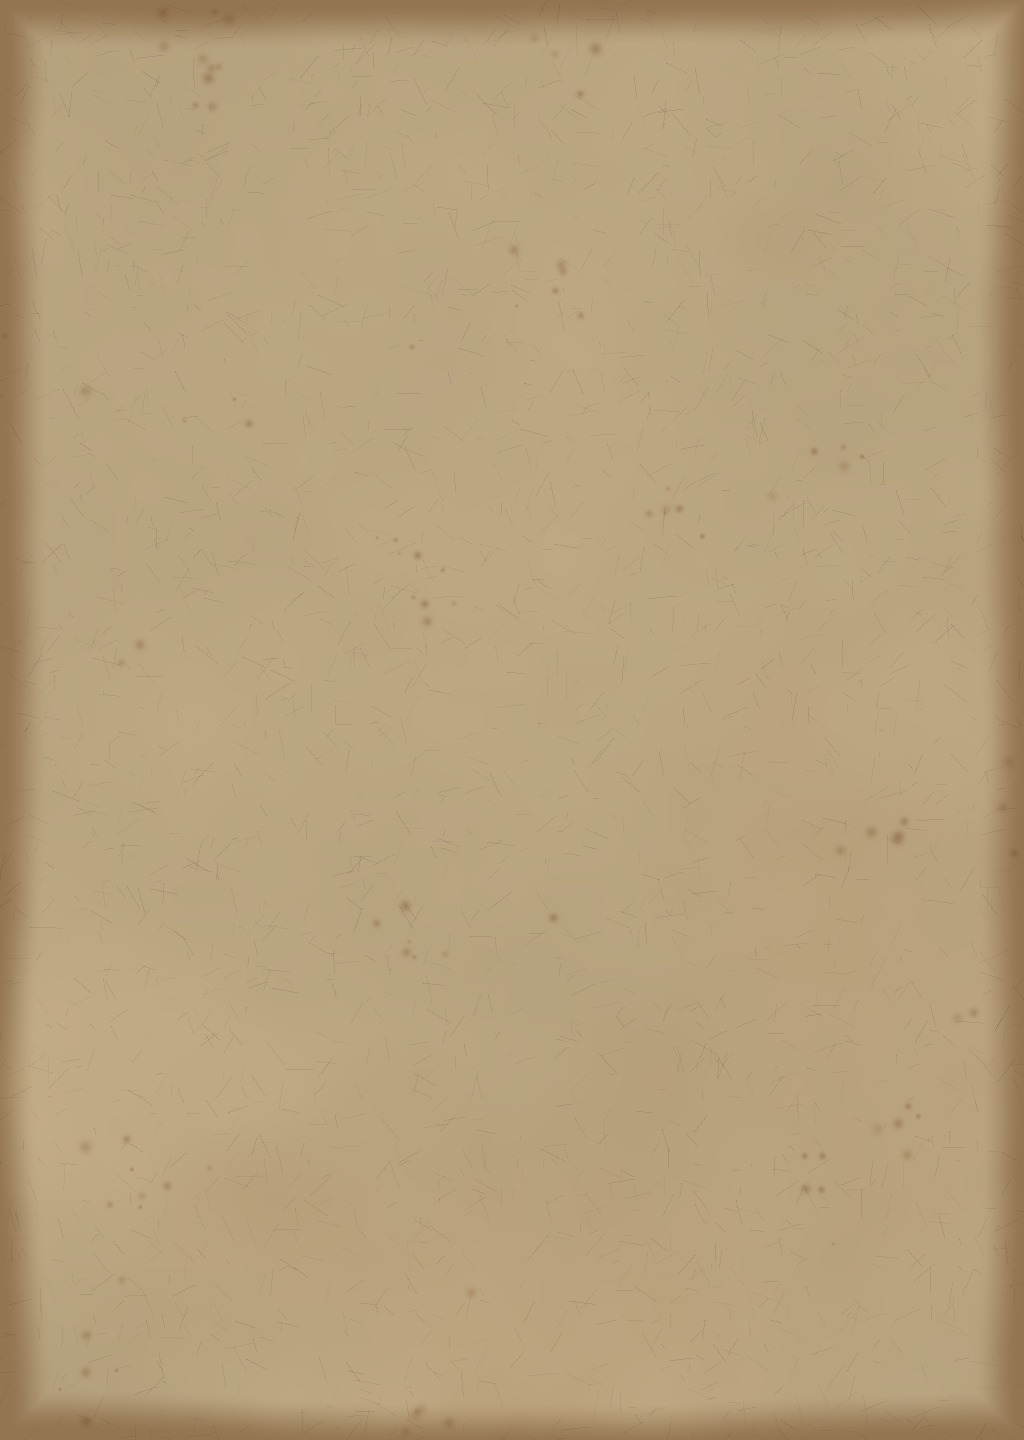
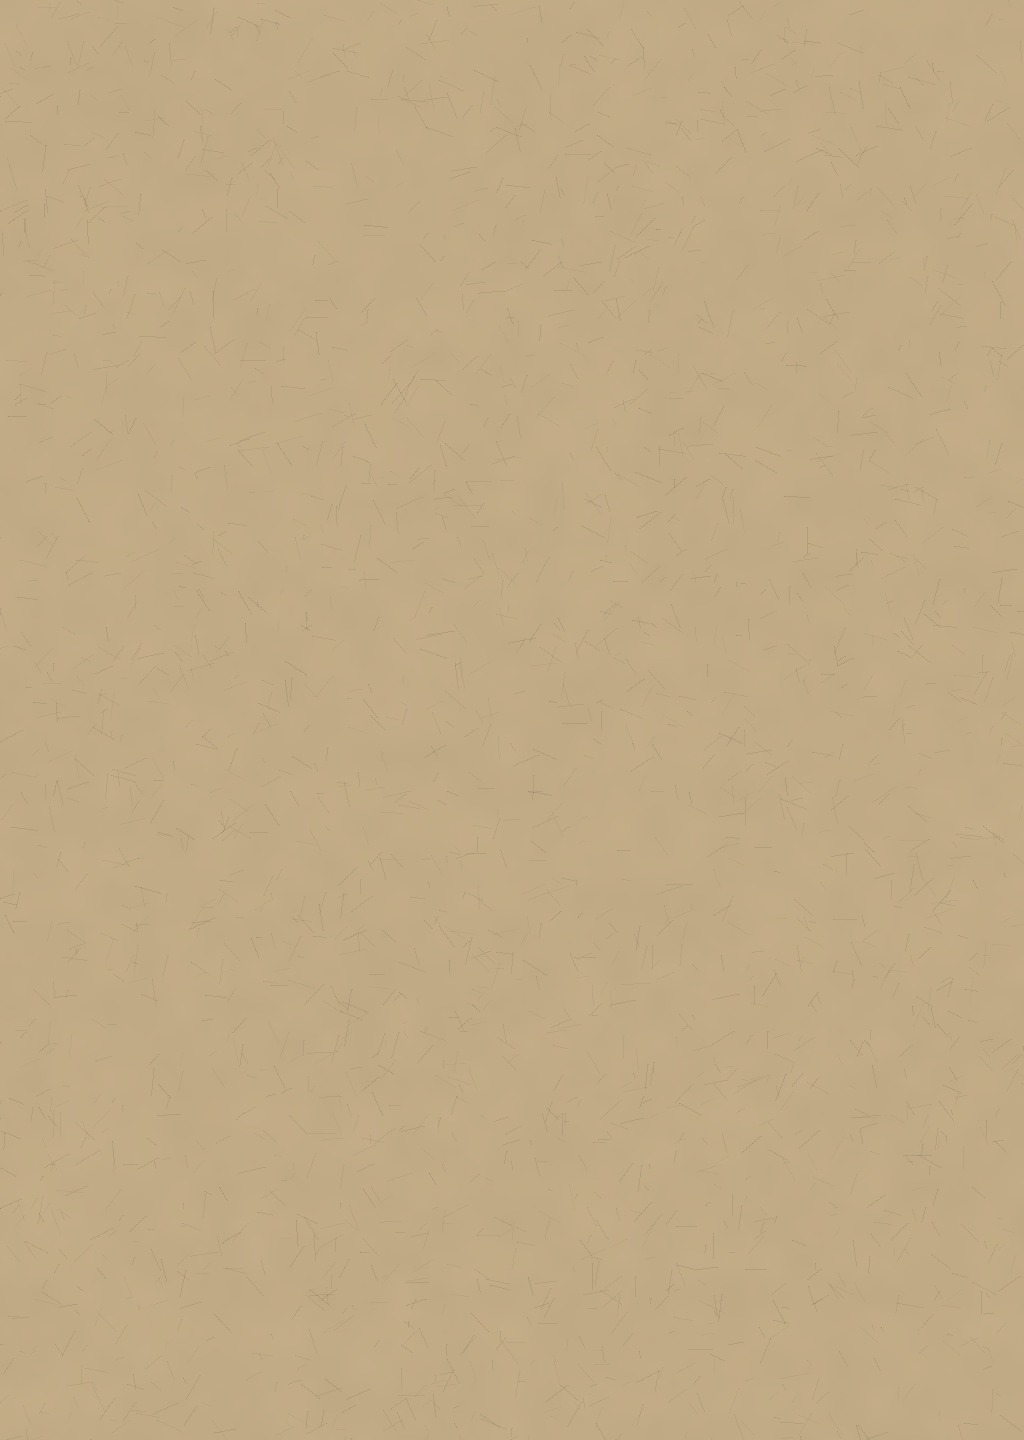
Library: each book's leather marked in a pattern of its own, and eleven kinds of paper, every sheet clouded its own way

Changed region(s): [[0.0, 0.0, 1.0, 1.0]]

diff --git a/overlay/src/book.cpp b/overlay/src/book.cpp
@@ -610,7 +610,7 @@ namespace
 	// ------------------------------------------------------------------------------------------
 
 	constexpr float kOxblood[3] = { 0.030f, 0.0095f, 0.0062f };   // texture_book.py's OXBLOOD, linear: book_d's dye
-	constexpr float kDyeScale = 1.4f;                               // book_m's red holds a / 1.4
+	constexpr float kDyeScale = 1.7f;                               // book_m's red holds a / 1.7
 
 	enum Tooling { kToolGilt, kToolBlind, kToolSilver };   // gold leaf, pressed with no leaf, or silver
 	enum Metal { kMetalBrass, kMetalIron, kMetalSilver };  // the corners
@@ -698,7 +698,22 @@ namespace
 		Mark water, scorch;
 		float mould = 0.f;        // how much of the cover has mildew on it, 0 none
 		float sunned = 0.f;       // the spine faded by the light, as one on a shelf is
+		// The hide's own character, which the atlas is baked without (texture_book.py's CLEAN), so each book's lies where
+		// its own does: its patterns turned by angle, the mottle of its tone, stains soaked into it, the faint tide lines of
+		// an old wetting all over it, a craquelure in patches, and its finish, added to its roughness
+		float angle = 0.f;
+		float toneScale = 14.f, tone = 1.f;
+		float stainScale = 9.f, stain = 0.5f;
+		float tideScale = 5.f, tides = 0.f;
+		float cracks = 0.f;
+		float finish = 0.f;
 		float paper[3] = { 1.f, 1.f, 1.f };   // the paper's colour, times the parchment's, linear
+		// The paper's own character: clouded in the sheet, blotched, laid (the lines of the mould it was made on: laid lines
+		// laidGap apart, chain lines chainGap apart), and specks of what was in the pulp. Each sheet clouded its own way.
+		float cloud = 0.05f, cloudScale = 14.f;
+		float blotch = 0.f, blotchScale = 8.f;
+		float laid = 0.f, laidGap = 0.001f, chainGap = 0.025f, chainAt = 0.f;
+		float specks = 0.f;
 	};
 
 	// FNV-1a over the id, then the salt mixed in by murmur3's finish, so ids alike but for their ends differ in every choice
@@ -792,19 +807,67 @@ namespace
 			look.mould = 0.4f + 0.6f * Unit(Hash(uuid, 41));
 		if (Unit(Hash(uuid, 50)) < 0.35f)
 			look.sunned = 0.35f + 0.5f * Unit(Hash(uuid, 51));
-		// Its paper: a good cream, a cheaper grey-white, or yellowed or toasted with the years, the older the likelier
-		struct Paper { float tint[3]; };
-		static const Paper kPapers[] = {
-			{ { 1.f, 1.f, 1.f } },             // cream, as the parchment is
-			{ { 1.04f, 1.06f, 1.12f } },       // grey-white rag
-			{ { 1.03f, 0.97f, 0.78f } },       // yellowed
-			{ { 0.9f, 0.8f, 0.64f } },         // toasted brown
+		// The hide's character
+		look.angle = Unit(Hash(uuid, 70)) * 6.2832f;
+		look.toneScale = 7.f + 16.f * Unit(Hash(uuid, 71));
+		look.tone = 0.35f + 0.95f * Unit(Hash(uuid, 72));
+		look.stainScale = 5.f + 10.f * Unit(Hash(uuid, 73));
+		look.stain = Unit(Hash(uuid, 74)) < 0.7f ? (0.25f + 0.75f * Unit(Hash(uuid, 75))) * (0.5f + look.age) : 0.f;
+		if (Unit(Hash(uuid, 76)) < 0.3f * kind.water)
+		{
+			look.tides = 0.5f + 0.5f * Unit(Hash(uuid, 77));
+			look.tideScale = 3.f + 5.f * Unit(Hash(uuid, 78));
+		}
+		if (Unit(Hash(uuid, 79)) < 0.1f + 0.55f * look.age * look.age)
+			look.cracks = 0.4f + 0.6f * Unit(Hash(uuid, 80));
+		look.finish = (Unit(Hash(uuid, 81)) - 0.5f) * 0.24f;
+		// Its paper, of the kinds a binder had; the cheaper and the browned ones likelier the older the book
+		struct Paper
+		{
+			float tint[3];
+			float young, old;      // how likely, in a new book and an old one
+			float cloud, blotch;   // how clouded and blotched the sheets of it are, most
+			float laid, specks;    // how likely it's laid, how specked
 		};
-		const float paper = Unit(Hash(uuid, 60)) * 0.75f + look.age * 0.4f;
-		const Paper& paperOf = kPapers[paper < 0.35f ? 1 : paper < 0.7f ? 0 : paper < 0.95f ? 2 : 3];
+		static const Paper kPapers[] = {
+			{ { 1.f, 1.f, 1.f }, 4, 3, 0.14f, 0.5f, 0.3f, 0.2f },          // cream, as the parchment is
+			{ { 1.07f, 1.04f, 0.9f }, 3, 2, 0.12f, 0.4f, 0.5f, 0.1f },     // ivory
+			{ { 1.2f, 1.2f, 1.17f }, 3, 0.5f, 0.07f, 0.2f, 0.6f, 0.1f },   // a good white rag
+			{ { 1.06f, 1.1f, 1.22f }, 3, 1, 0.12f, 0.4f, 0.4f, 0.3f },     // grey-white
+			{ { 0.9f, 1.f, 1.2f }, 1.5f, 1, 0.14f, 0.4f, 0.4f, 0.3f },     // blue-grey
+			{ { 0.9f, 1.02f, 0.84f }, 1, 1, 0.16f, 0.5f, 0.3f, 0.4f },        // green-grey
+			{ { 1.1f, 0.94f, 0.9f }, 1, 0.5f, 0.12f, 0.4f, 0.5f, 0.2f },  // a rose rag
+			{ { 1.05f, 0.95f, 0.68f }, 1, 4, 0.18f, 0.8f, 0.3f, 0.3f },     // yellowed
+			{ { 0.85f, 0.72f, 0.52f }, 0.3f, 2.5f, 0.22f, 0.9f, 0.2f, 0.4f },  // toasted brown
+			{ { 1.02f, 0.9f, 0.74f }, 1, 2, 0.4f, 1.f, 0.f, 0.f },        // vellum: skin, heavily clouded, no mould's lines
+			{ { 0.8f, 0.79f, 0.74f }, 1, 2, 0.18f, 0.6f, 0.f, 1.f },        // a cheap grey pulp, full of specks
+		};
+		float paperTotal = 0.f;
+		for (const Paper& p : kPapers)
+			paperTotal += p.young + (p.old - p.young) * look.age;
+		float paperPick = Unit(Hash(uuid, 60)) * paperTotal;
+		const Paper* paperOf = &kPapers[0];
+		for (const Paper& p : kPapers)
+		{
+			paperOf = &p;
+			if ((paperPick -= p.young + (p.old - p.young) * look.age) < 0.f)
+				break;
+		}
 		const float jitter = 0.94f + 0.1f * Unit(Hash(uuid, 61));
 		for (int k = 0; k < 3; ++k)
-			look.paper[k] = paperOf.tint[k] * jitter;
+			look.paper[k] = paperOf->tint[k] * jitter * (0.97f + 0.06f * Unit(Hash(uuid, 62 + k)));
+		look.cloud = paperOf->cloud * (0.3f + 0.7f * Unit(Hash(uuid, 65)));
+		look.cloudScale = 6.f + 26.f * Unit(Hash(uuid, 66));
+		look.blotch = Unit(Hash(uuid, 67)) < 0.75f ? paperOf->blotch * (0.3f + 0.7f * Unit(Hash(uuid, 68))) * (0.4f + look.age) : 0.f;
+		look.blotchScale = 4.f + 10.f * Unit(Hash(uuid, 69));
+		if (Unit(Hash(uuid, 90)) < paperOf->laid)
+		{
+			look.laid = 0.5f + 0.5f * Unit(Hash(uuid, 91));
+			look.laidGap = 0.0008f + 0.0006f * Unit(Hash(uuid, 92));
+			look.chainGap = 0.02f + 0.012f * Unit(Hash(uuid, 93));
+			look.chainAt = Unit(Hash(uuid, 94)) * look.chainGap;
+		}
+		look.specks = paperOf->specks * Unit(Hash(uuid, 95));
 		return look;
 	}
 
@@ -850,6 +913,30 @@ namespace
 	{
 		const float t = std::clamp((x - edge0) / (edge1 - edge0), 0.f, 1.f);
 		return t * t * (3.f - 2.f * t);
+	}
+
+	// Cells, as cracked leather's: how far a point is from the edge between its cell and the next, in cells, 0 on it
+	float CellEdge(float x, float y, uint32_t seed)
+	{
+		const int i = static_cast<int>(std::floor(x)), j = static_cast<int>(std::floor(y));
+		float first = 9.f, second = 9.f;
+		for (int dj = -1; dj <= 1; ++dj)
+			for (int di = -1; di <= 1; ++di)
+			{
+				uint32_t h = static_cast<uint32_t>(i + di) * 374761393u + static_cast<uint32_t>(j + dj) * 668265263u + seed * 2654435761u;
+				h = (h ^ (h >> 13)) * 1274126177u;
+				h ^= h >> 16;
+				const float px = i + di + Unit(h), py = j + dj + Unit(h * 747796405u + 2891336453u);
+				const float d = std::hypot(px - x, py - y);
+				if (d < first)
+				{
+					second = first;
+					first = d;
+				}
+				else if (d < second)
+					second = d;
+			}
+		return (second - first) * 0.5f;
 	}
 
 	// The atlas's three maps as they're built in, read once
@@ -1024,8 +1111,51 @@ namespace
 		float burnt = 0.f;      // charred: any metal here blackened too
 	};
 
+	// The hide's own character where the bake left it plain (texture_book.py's CLEAN): its tone mottled, stains soaked in,
+	// an old wetting's faint tide lines, and a craquelure in patches, each book's turned and placed its own way
+	void Character(const Look& look, float w, float y, float leather, Wear& out)
+	{
+		if (leather <= 0.f)
+			return;
+		const uint32_t seed = look.seed;
+		const float cs = std::cos(look.angle), sn = std::sin(look.angle);
+		const float u = w * cs - y * sn + 3.7f, v = w * sn + y * cs + 1.3f;
+		float* c = out.colour;
+		// Tone: darker and lighter, as the bake had it at the middle of (0.8 to 1.15 of the dye)
+		const float tone = Smooth(0.3f, 0.7f, Fbm(u * look.toneScale, v * look.toneScale, seed + 80));
+		float mul = 1.f + ((0.8f + 0.35f * tone) / 0.975f - 1.f) * look.tone;
+		// Stains soaked in, darker and a little glossier
+		if (look.stain > 0.f)
+		{
+			const float s = Smooth(0.56f, 0.72f, Fbm(u * look.stainScale, v * look.stainScale, seed + 81)) * look.stain;
+			mul *= 1.f - 0.3f * std::min(1.f, s);
+			out.rough += (0.42f - out.rough) * std::min(1.f, s) * 0.5f * leather;
+		}
+		// An old wetting's tide lines, faint, wandering all over
+		if (look.tides > 0.f)
+		{
+			const float line = Smooth(0.03f, 0.f, std::abs(Fbm(u * look.tideScale, v * look.tideScale, seed + 82) - 0.5f)) * look.tides;
+			mul *= 1.f - 0.3f * line;
+		}
+		// Craquelure: fine cracks between small cells, longer along the spine, in patches
+		if (look.cracks > 0.f)
+		{
+			const float patch = Smooth(0.5f, 0.64f, Fbm(u * 11.f, v * 11.f, seed + 83)) * look.cracks;
+			if (patch > 0.f)
+			{
+				const float crack = Smooth(0.05f, 0.f, CellEdge(u * 140.f, v * 85.f, seed + 84)) * patch;
+				mul *= 1.f - 0.6f * crack;
+				out.rough += (0.85f - out.rough) * crack * leather;
+			}
+		}
+		for (int k = 0; k < 3; ++k)
+			c[k] *= 1.f + (mul - 1.f) * leather;
+		out.rough = std::clamp(out.rough + look.finish * leather, 0.f, 1.f);
+	}
+
 	void Weather(const Look& look, float w, float y, float spine, float leather, Wear& out)
 	{
+		Character(look, w, y, leather, out);
 		const uint32_t seed = look.seed;
 		float* c = out.colour;
 		const float lum = 0.2126f * c[0] + 0.7152f * c[1] + 0.0722f * c[2];
@@ -1238,6 +1368,7 @@ namespace
 		{
 			// The paper's colour, and browned in from its three open edges (not the spine's) as it aged
 			const float reach = 0.004f + 0.02f * look.age;
+			const uint32_t sheet = seed + 100 + n * 7;
 			for (int y = 0; y < height; ++y)
 				for (int x = 0; x < width; ++x)
 				{
@@ -1245,11 +1376,35 @@ namespace
 					place(x, y, out, up);
 					const float edge = std::min(kPaperW - out, kPaperH * 0.5f - std::abs(up));
 					const float brown = Smooth(reach, 0.f, edge + (Fbm(out * 90.f, up * 90.f, seed) - 0.5f) * reach * 0.8f) * (0.25f + 0.45f * look.age);
+					// The sheet's clouding, its own on every leaf; a blotch or two; the mould's laid and chain lines
+					float shade = 1.f + (Fbm(out * look.cloudScale, up * look.cloudScale, sheet) - 0.5f) * 5.f * look.cloud;
+					const float blotch = look.blotch > 0.f ? Smooth(0.5f, 0.72f, Fbm(out * look.blotchScale, up * look.blotchScale, sheet + 3)) * look.blotch : 0.f;
+					if (look.laid > 0.f)
+					{
+						const float chain = std::abs(std::fmod(out + look.chainAt, look.chainGap) - look.chainGap * 0.5f);
+						shade *= 1.f - look.laid * (0.05f * (0.5f + 0.5f * std::cos(up * 6.2832f / look.laidGap)) + 0.1f * Smooth(look.chainGap * 0.5f - 0.0016f, look.chainGap * 0.5f, chain));
+					}
 					uint8_t* p = pixel(x, y);
-					static constexpr float kBrowned[3] = { 0.8f, 0.62f, 0.42f };
+					static constexpr float kBrowned[3] = { 0.8f, 0.62f, 0.42f }, kBlotch[3] = { 0.76f, 0.66f, 0.5f };
 					for (int k = 0; k < 3; ++k)
-						p[k] = ToSrgb(ToLinear(p[k]) * look.paper[k] * (1.f + (kBrowned[k] - 1.f) * brown));
+						p[k] = ToSrgb(ToLinear(p[k]) * look.paper[k] * shade * (1.f + (kBlotch[k] - 1.f) * blotch) * (1.f + (kBrowned[k] - 1.f) * brown));
 				}
+			// Specks of what was in the pulp: bark, rag and dirt, small and dark
+			const int specks = static_cast<int>(look.specks * 450.f * (0.6f + 0.8f * Unit(Hash(uuid, 4000 + n))));
+			for (int sp = 0; sp < specks; ++sp)
+			{
+				const uint32_t g = Hash(uuid, 9000 + n * 512 + sp);
+				const float x = Unit(g) * width, y = Unit(g * 747796405u + 3) * height;
+				const float r = 0.5f + Unit(g ^ 0x27d4eb2du) * 1.4f, strength = 0.25f + 0.5f * Unit(g * 2891336453u + 7);
+				for (int yy = std::max(0, static_cast<int>(y - r * 2.f)); yy < std::min(height, static_cast<int>(y + r * 2.f) + 1); ++yy)
+					for (int xx = std::max(0, static_cast<int>(x - r * 2.f)); xx < std::min(width, static_cast<int>(x + r * 2.f) + 1); ++xx)
+					{
+						const float f = std::exp(-((xx - x) * (xx - x) + (yy - y) * (yy - y)) / (r * r)) * strength;
+						uint8_t* p = pixel(xx, yy);
+						for (int k = 0; k < 3; ++k)
+							p[k] = ToSrgb(ToLinear(p[k]) * (1.f - 0.75f * f));
+					}
+			}
 			// Foxing: small rust-brown spots, in clusters, more of them the older the book
 			const int clusters = static_cast<int>(look.age * look.age * 9.f + Unit(Hash(uuid, 1000 + n)) * 3.f * look.age);
 			for (int c = 0; c < clusters; ++c)
